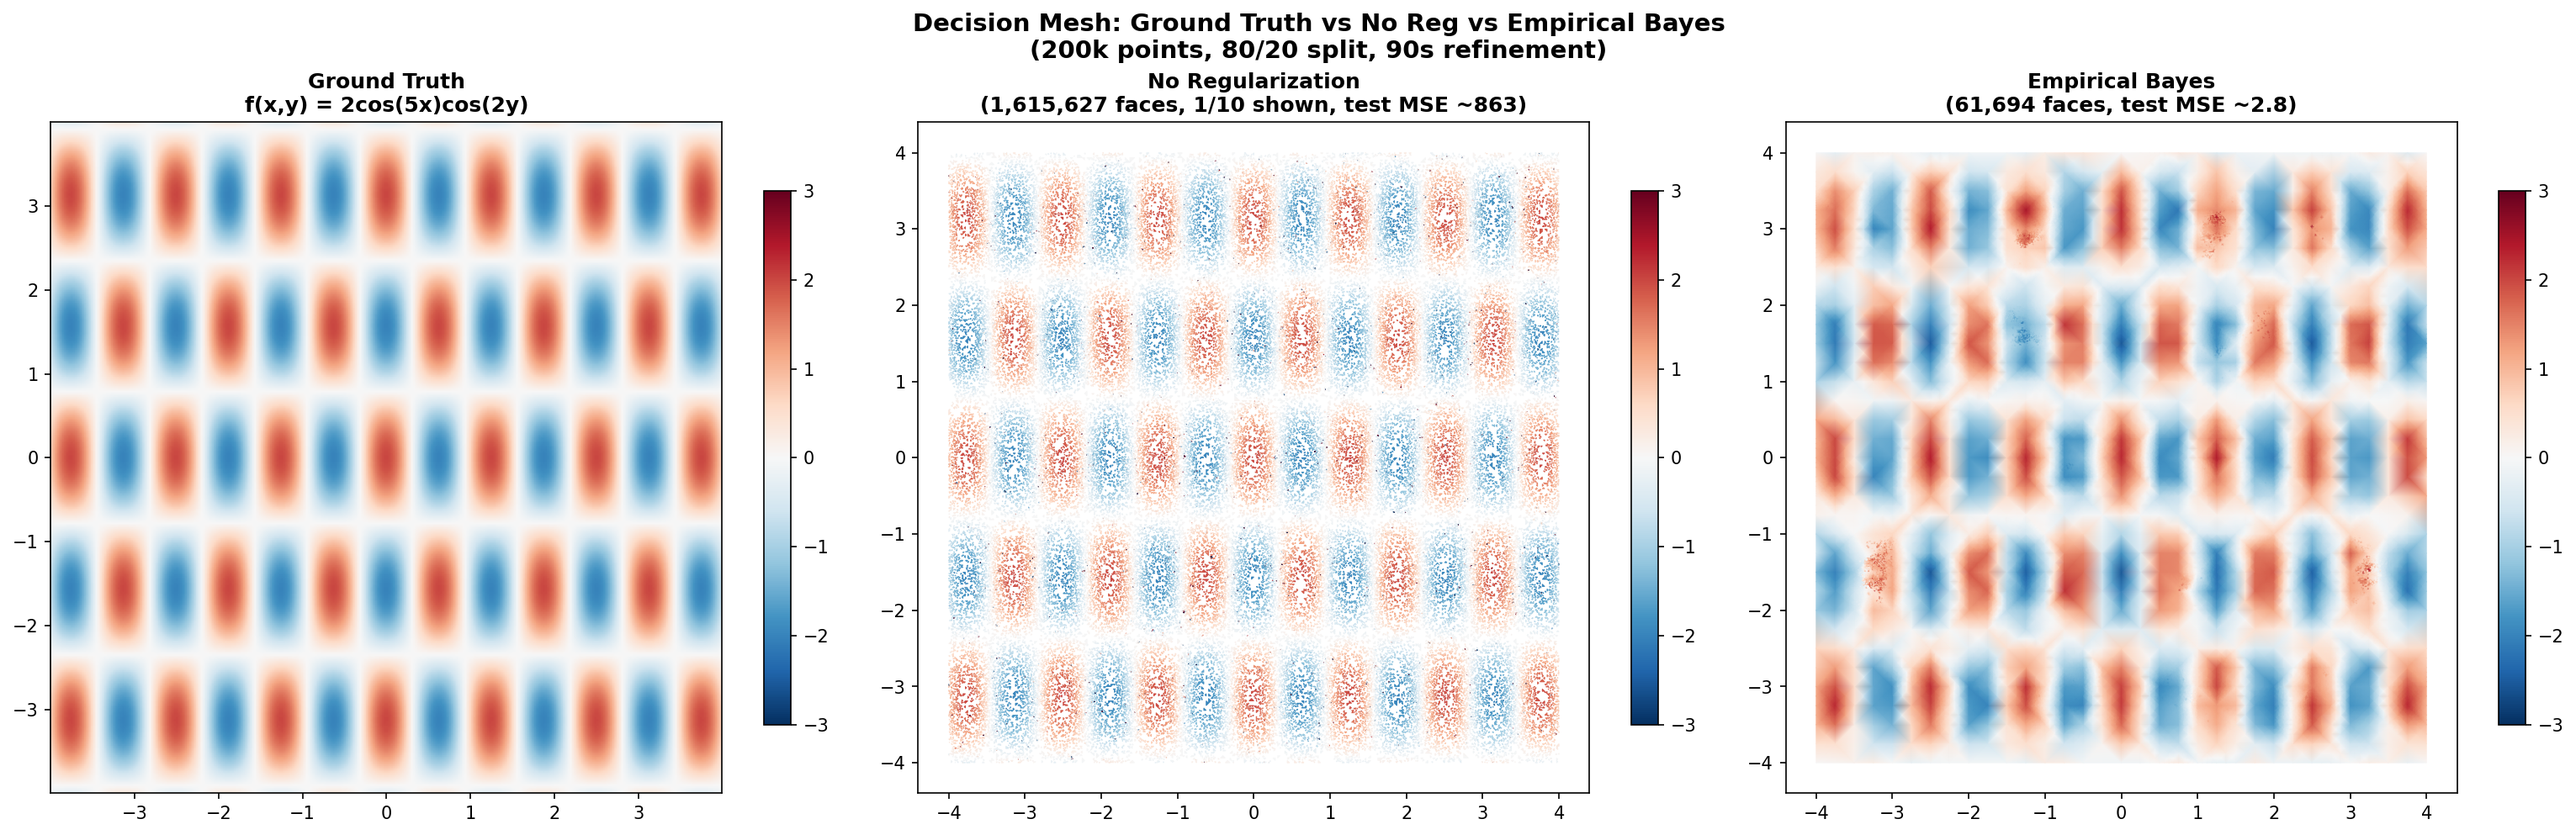
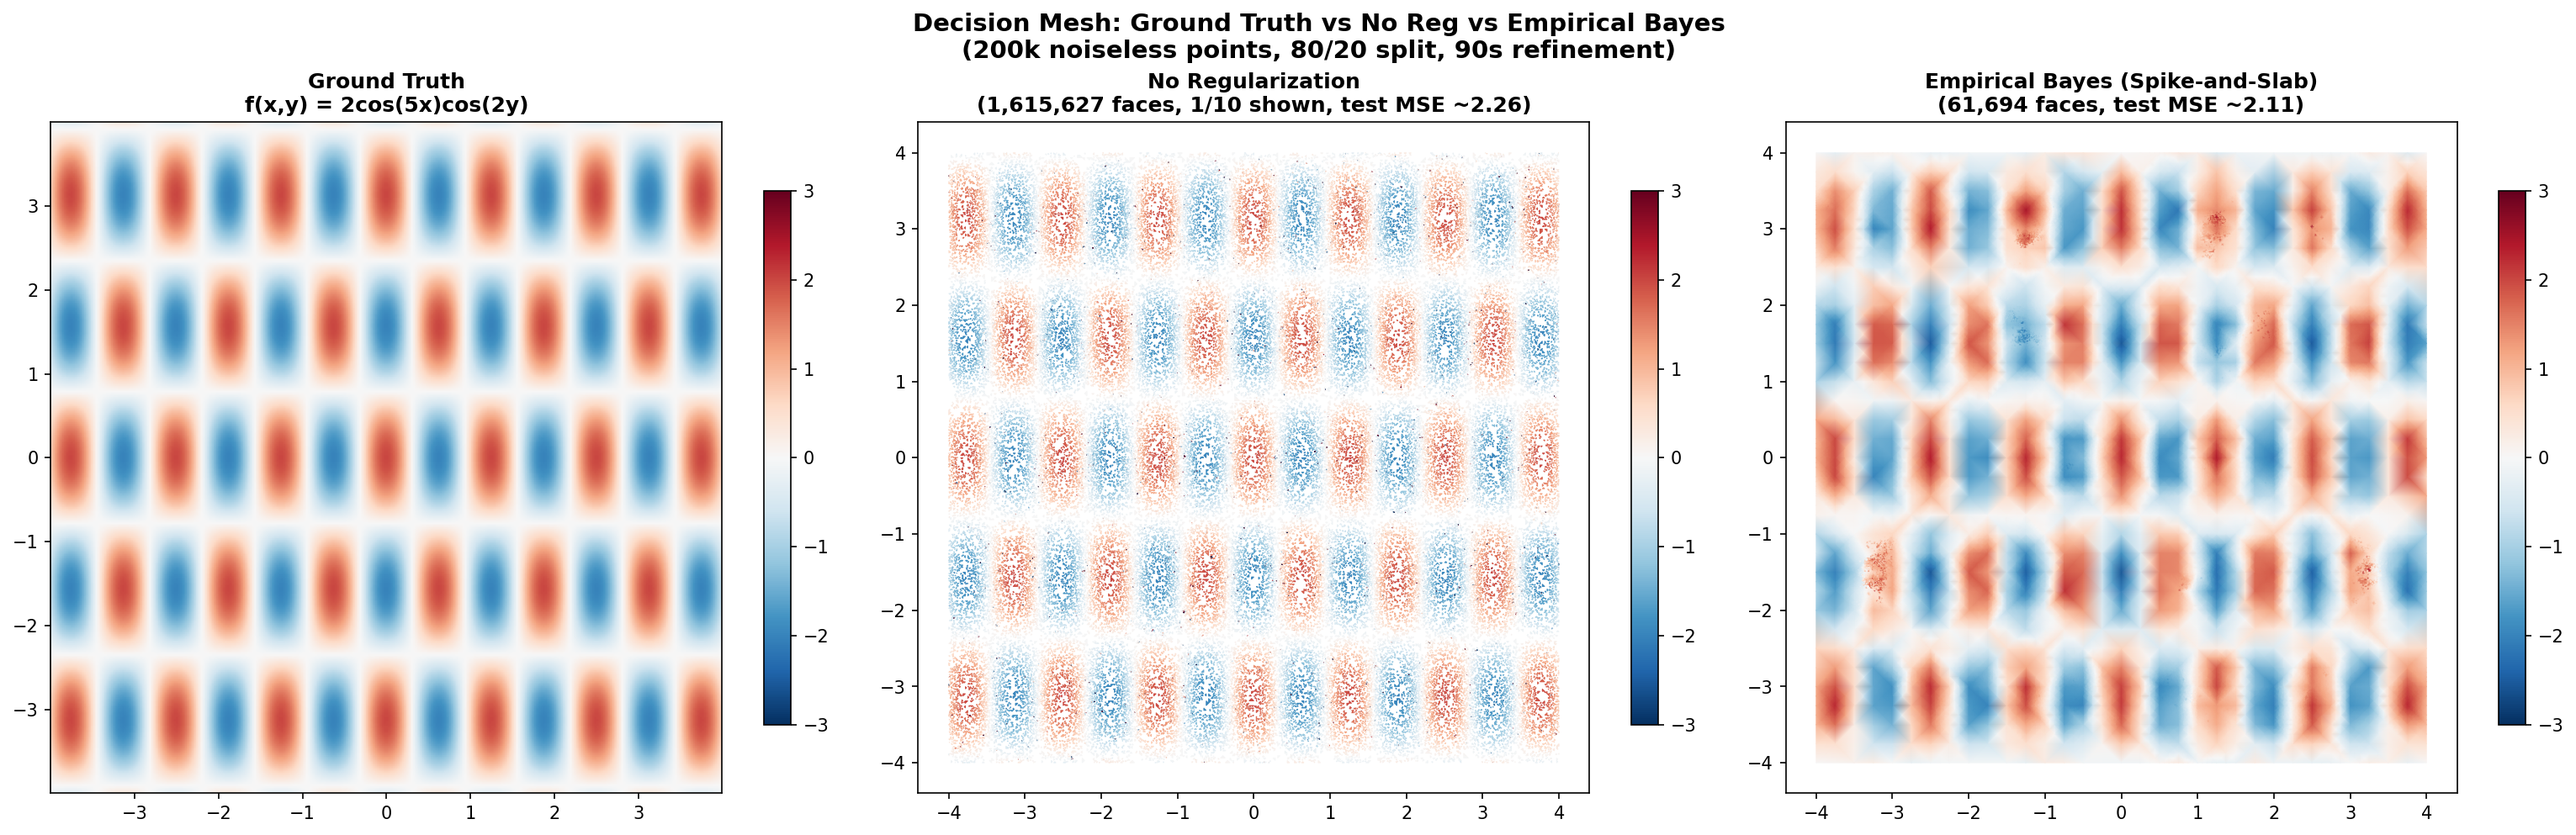
Update plot titles to reflect noiseless benchmark
Labels now show noise_scale=0 MSE values and "noiseless" in suptitles.

https://claude.ai/code/session_01VesChT76TDEvHJ2z3U3kLU

Changed region(s): [[0.3723, 0.0312, 0.6515, 0.1561], [0.7446, 0.0937, 0.8997, 0.1561]]

diff --git a/cpp/plot_meshes.py b/cpp/plot_meshes.py
@@ -62,7 +62,7 @@ def main():
     tpc1 = axes[1].tripcolor(tri_noreg, noreg_h_clipped, shading="gouraud",
                               cmap="RdBu_r", vmin=-vlim, vmax=vlim, rasterized=True)
     axes[1].set_aspect("equal", "box")
-    axes[1].set_title(f"No Regularization\n({n_noreg:,} faces{sub_label}, test MSE ~863)",
+    axes[1].set_title(f"No Regularization\n({n_noreg:,} faces{sub_label}, test MSE ~2.26)",
                       fontsize=12, fontweight="bold")
     fig.colorbar(tpc1, ax=axes[1], shrink=0.75)
 
@@ -72,12 +72,12 @@ def main():
     tpc2 = axes[2].tripcolor(tri_eb, eb_v["height"].values, shading="gouraud",
                               cmap="RdBu_r", vmin=-vlim, vmax=vlim, rasterized=True)
     axes[2].set_aspect("equal", "box")
-    axes[2].set_title(f"Empirical Bayes\n({n_eb:,} faces, test MSE ~2.8)",
+    axes[2].set_title(f"Empirical Bayes (Spike-and-Slab)\n({n_eb:,} faces, test MSE ~2.11)",
                       fontsize=12, fontweight="bold")
     fig.colorbar(tpc2, ax=axes[2], shrink=0.75)
 
     fig.suptitle("Decision Mesh: Ground Truth vs No Reg vs Empirical Bayes\n"
-                 "(200k points, 80/20 split, 90s refinement)",
+                 "(200k noiseless points, 80/20 split, 90s refinement)",
                  fontsize=14, fontweight="bold", y=1.0)
     plt.tight_layout()
     out1 = "mesh_comparison.png"

diff --git a/cpp/plot_shrinkage.py b/cpp/plot_shrinkage.py
@@ -49,7 +49,7 @@ def main():
     cb_p = fig.colorbar(tpc_p, ax=ax_p, shrink=0.75)
     cb_p.set_label(r"$p_v$    [0 = spike (linear), 1 = slab (curvature)]")
 
-    fig.suptitle(f"Wavelet Spike-and-Slab EB: Height / Shrinkage / Inclusion ({len(tris):,} faces)",
+    fig.suptitle(f"Wavelet Spike-and-Slab EB — Noiseless: Height / Shrinkage / Inclusion ({len(tris):,} faces)",
                  fontsize=14, fontweight="bold", y=1.0)
     plt.tight_layout()
     out = "mesh_shrinkage.png"
